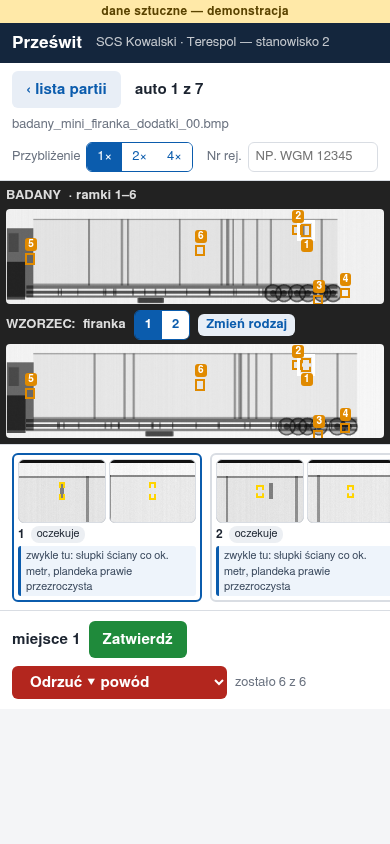
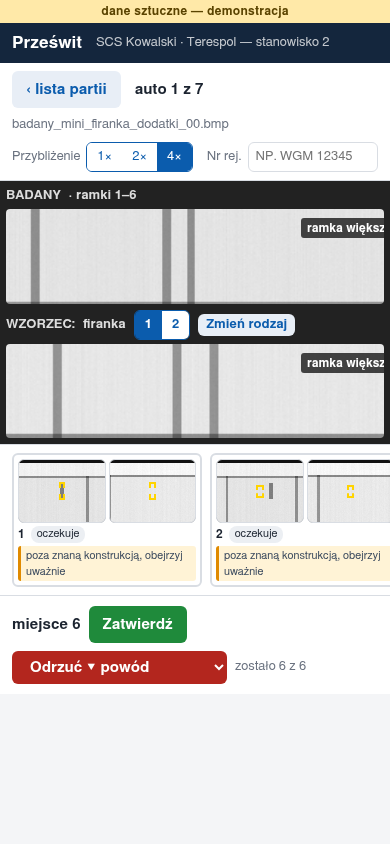
Programista: P81 A — podpowiedzi makiety r3 z listy MVP

diff --git a/makieta/r3/dane.js b/makieta/r3/dane.js
@@ -10,34 +10,37 @@ const NAZWA = { firanka: "firanka", chlodnia: "chłodnia", kontener: "kontener",
 const Z_WZORCEM = ["firanka", "chlodnia", "kontener"];   // cysterny nie ma w bibliotece wzorców (P35 A) → E5
 const BRAK_WZORCA = "brak wzorca — sprawdź obraz sam";
 const BRAK_WSKAZAN = "brak wskazań — to nie gwarancja, że auto jest czyste; obejrzyj obraz sam";   // P58 A
-const BEZ_OPISU = "poza znaną konstrukcją, obejrzyj uważnie";   // P42
+const BEZ_OPISU = PrzeswitLista.POZA_KONSTRUKCJA;   // P42 — z MVP (P81 A)
 const PRZYKLAD = "makieta: wynik przykładowy, nie z Twojego obrazu";   // P62 A
 const ILE_NA_LISCIE = 6;   // P57 A
-const m = (x0, y0, x1, y1, sila, podp) => ({ x0, y0, x1, y1, sila, podp });
+const m = (x0, y0, x1, y1, sila) => ({ x0, y0, x1, y1, sila });
+// P81 A: podpowiedź strefy / P42 — ta sama funkcja i ta sama lista tekstów co MVP (mvp/widok-auta/widok.js,
+// strefy z dane/generator/z12_z14.py); bez ręcznych opisów. Strefy według rodzaju, z którym program porównuje auto.
+const podpowiedzMiejsca = (x, a) => PrzeswitLista.podpowiedz(x, a.rodzajOperatora || a.rodzaj, W, H);
 // 2 najbliższe wzorce badanego obrazu w każdym rodzaju — z doboru programu v3 (P70 A); brak w doborze → _00, _01
 const AUTA = [
   { plik: "badany_mini_firanka_dodatki_00.bmp", rodzaj: "firanka",
     wz: { firanka: ["wzorzec_mini_firanka_01", "wzorzec_mini_firanka_00"], kontener: ["wzorzec_mini_kontener_00", "wzorzec_mini_kontener_01"] }, miejsca: [
-    m(799, 39, 811, 75, 0.91, "zwykle tu: słupki ściany co ok. metr, plandeka prawie przezroczysta"),
-    m(776, 44, 791, 70, 0.62, "zwykle tu: słupki ściany co ok. metr, plandeka prawie przezroczysta"),   // pudło obok dodatku (P67 A)
-    m(833, 233, 841, 241, 0.55, "zwykle tu: podwozie — belka poprzeczna"),
-    m(904, 214, 912, 238, 0.44, "zwykle tu: podwozie — koła i oś"),
-    m(52, 120, 70, 150, 0.27, "zwykle tu: kabina ciągnika"),
-    m(512, 96, 530, 128, 0.22, null)] },
+    m(799, 39, 811, 75, 0.91),
+    m(776, 44, 791, 70, 0.62),   // pudło obok dodatku (P67 A)
+    m(833, 233, 841, 241, 0.55),
+    m(904, 214, 912, 238, 0.44),
+    m(52, 120, 70, 150, 0.27),
+    m(512, 96, 530, 128, 0.22)] },
   { plik: "badany_mini_chlodnia_dodatki_01.bmp", rodzaj: "chlodnia",
     wz: { chlodnia: ["wzorzec_mini_chlodnia_00", "wzorzec_mini_chlodnia_01"], kontener: ["wzorzec_mini_kontener_02", "wzorzec_mini_kontener_00"] }, miejsca: [
-    m(711, 60, 728, 111, 0.83, "zwykle tu: gruba ściana izolacji, cienkie słupki"),
-    m(488, 70, 511, 102, 0.66, null),
-    m(444, 237, 455, 253, 0.18, "zwykle tu: podwozie — belka poprzeczna")] },
+    m(711, 60, 728, 111, 0.83),
+    m(488, 70, 511, 102, 0.66),
+    m(444, 237, 455, 253, 0.18)] },
   { plik: "badany_mini_kontener_dodatki_01.bmp", rodzaj: "kontener",
     wz: { kontener: ["wzorzec_mini_kontener_00", "wzorzec_mini_kontener_01"], firanka: ["wzorzec_mini_firanka_01", "wzorzec_mini_firanka_00"] }, miejsca: [
-    m(421, 135, 447, 182, 0.78, "zwykle tu: faliste ściany, narożniki"),
-    m(213, 215, 233, 245, 0.35, "zwykle tu: podwozie — podłużnica")] },
+    m(421, 135, 447, 182, 0.78),
+    m(213, 215, 233, 245, 0.35)] },
   { plik: "badany_mini_kontener_czyste_00.bmp", rodzaj: "kontener",
     wz: { kontener: ["wzorzec_mini_kontener_00", "wzorzec_mini_kontener_01"], firanka: ["wzorzec_mini_firanka_01", "wzorzec_mini_firanka_00"] }, miejsca: [] },   // A3
   { plik: "badany_mini_firanka_czyste_01.bmp", rodzaj: "firanka",
     wz: { firanka: ["wzorzec_mini_firanka_01", "wzorzec_mini_firanka_00"], kontener: ["wzorzec_mini_kontener_01", "wzorzec_mini_kontener_00"] }, miejsca: [
-    m(875, 213, 882, 240, 0.14, "zwykle tu: podwozie — koła i oś")] },
+    m(875, 213, 882, 240, 0.14)] },
   { plik: "badany_mini_cysterna_dodatki_00.bmp", rodzaj: "cysterna",
     wz: { firanka: ["wzorzec_mini_firanka_02", "wzorzec_mini_firanka_00"], kontener: ["wzorzec_mini_kontener_02", "wzorzec_mini_kontener_00"] }, miejsca: [] },   // E5
   { plik: "trudny_mini_firanka_za_ladunkiem_00.bmp", rodzaj: "firanka", trudnyZestaw: true,
@@ -47,10 +50,10 @@ const AUTA = [
     miejsca: [[740, 178, 856, 256, 2.128], [405, 238, 417, 255, 1.102], [342, 239, 351, 254, 1.028], [146, 215, 154, 233, 0.676],
       [537, 0, 622, 206, 0.657], [166, 31, 332, 196, 0.517], [374, 187, 386, 206, 0.434], [440, 190, 447, 206, 0.434],
       [375, 27, 383, 149, 0.399], [834, 26, 840, 32, 0.271], [553, 242, 557, 254, 0.211]].map(([x0, y0, x1, y1, w]) =>
-      m(x0, y0, x1, y1, Math.min(1, w / 2.5), y0 >= 205 || y1 >= 240 ? (x0 > 700 ? "zwykle tu: podwozie — koła i oś" : "zwykle tu: podwozie — belka poprzeczna") : null)) },
+      m(x0, y0, x1, y1, Math.min(1, w / 2.5))) },
 ];
 // udawany wynik po zmianie rodzaju na inny niż pierwotny (analiza „od nowa”)
-const MIEJSCA_PO_ZMIANIE = [m(400, 90, 430, 140, 0.48, null), m(620, 220, 640, 246, 0.2, "zwykle tu: podwozie — belka poprzeczna")];
+const MIEJSCA_PO_ZMIANIE = [m(400, 90, 430, 140, 0.48), m(620, 220, 640, 246, 0.2)];
 const png = (n) => `../r2/obrazy/${n}.png`;   // obrazy wspólne z R2 (R2 bez zmian)
 const obrazBadany = (a) => a.wlasny || png(a.plik.replace(/\.bmp$/i, ""));
 const wzorceAuta = (a, r) => (a.wz && a.wz[r]) || [`${a.trudnyZestaw ? "trudny_" : ""}wzorzec_mini_${r}_00`, `${a.trudnyZestaw ? "trudny_" : ""}wzorzec_mini_${r}_01`];

diff --git a/makieta/r3/aplikacja.js b/makieta/r3/aplikacja.js
@@ -152,7 +152,7 @@ function rysujAuto() {
     const d = a.decyzje[i], st = d ? d.d : "oczekuje";
     return `<div class="kaf ${i === S.im ? "wyb" : ""}" data-i="${i}"><div class="para"><div class="lupa" data-l="b"></div><div class="lupa" data-l="w"></div></div>
       <div class="opis"><b>${i + 1}</b><span class="st ${st}">${st}${d && d.powod ? ": " + esc(d.powod) : ""}</span></div>
-      <div class="podp ${x.podp ? "" : "uwaga"}">${x.podp || BEZ_OPISU}</div></div>`;
+      ${(() => { const p = podpowiedzMiejsca(x, a); return `<div class="podp ${p.znany ? "" : "uwaga"}">${p.tekst}</div>`; })()}</div>`;
   }).join("");
   $("a-wiecej").innerHTML = reszta ? `<div class="wiecej" id="pokazwiecej">i jeszcze ${reszta} miejsc — pokaż</div>` : "";
   if (reszta) $("pokazwiecej").onclick = () => { S.wszystkie = true; rysujAuto(); };

diff --git a/makieta/r3/index.html b/makieta/r3/index.html
@@ -99,6 +99,7 @@ td img.mini{width:150px;border-radius:3px;display:block;background:#000;min-heig
 <div class="przyciski"><button class="btn ok" id="zapisz">Zapisz i zamknij partię</button> <button class="btn ok" id="r-nowa" style="display:none">Nowa partia</button> <button class="btn jasny" id="r-lista">‹ lista partii</button></div>
 <p class="szary" id="r-info">Zapis: raport-partii.json i raport-partii.csv. W wersji pod linkiem pliki pobiera przeglądarka; bez internetu program działa po uruchomieniu lokalnym.</p></div></section>
 
+<script src="../../mvp/widok-auta/widok.js"></script>   <!-- P81 A: wspólne teksty podpowiedzi z MVP -->
 <script src="dane.js"></script>
 <script src="aplikacja.js"></script>
 </body></html>

diff --git a/docs/decyzje.md b/docs/decyzje.md
@@ -523,3 +523,4 @@ P82 15:36 Artur: Na prawdziwym programie żadne auto z partii pokazowej nie wych
 P82 15:39 odpowiedź: A, ale tylko jeśli takie auto jest w naszych danych i program nic na nim nie wskazuje bez sztuczek; jeśli nie — B z uczciwym opisem „na czystych autach program zwykle coś wskazuje” (Artur w pokoju)
 15:39 Projektant: P82 → A, warunek Artura spełniony wg docs/odbior.md (A3 zalicza): dane/scenariusze/czyste_zero/badany_mini_kontener_zero_00.bmp daje 0 miejsc na v3 bez zmiany progów (spec nie ma progu). Auto 4 w partii pokazowej = to zdjęcie zamiast kontener_czyste_00; do Szefa/Programisty: podmiana w demo.md, spec §7, 06, makiecie; w opisie uczciwie, że to zdjęcie wygenerowane tym samym generatorem co reszta (dane sztuczne)
 15:38 Programista: zadanie 36 — próg „brak wzorca” (PROG_DOBORU sr<0,80, zadanie 33) przeniesiony do wykryj_v3 (ten sam zwrot co v2; --prog-doboru działa też dla v3). Hipotezy przebiegu odbioru na karcie: H3/H6 cysterny bez wzorca → brak wzorca, 0 ramek (A4); H7 próg nie odcina aut z wzorcem w mini/mini-trudny/zero/duzy (A1–A3, A12, przeoczenia bez zmian).
+15:39 Programista: P81 A w makiecie r3 — ręczne opisy „zwykle tu: …” usunięte z makieta/r3/dane.js; podpowiedź kafelka liczy ta sama funkcja i lista stref co MVP (mvp/widok-auta/widok.js: STREFY, podpowiedz, POZA_KONSTRUKCJA — r3 ładuje ten plik); miejsca poza strefą dostają napis P42. MVP z zadania 26 bez zmian. Test testy/test_makieta_podpowiedz.mjs: 29 miejsc (15 z listy, 14 P42), 32 sprawdzeń — OK. Zrzuty r3 z podpowiedziami odświeżone (auto1, auto7, auto7-zoom4-miejsce6, telefon-auto1, telefon-auto7).
